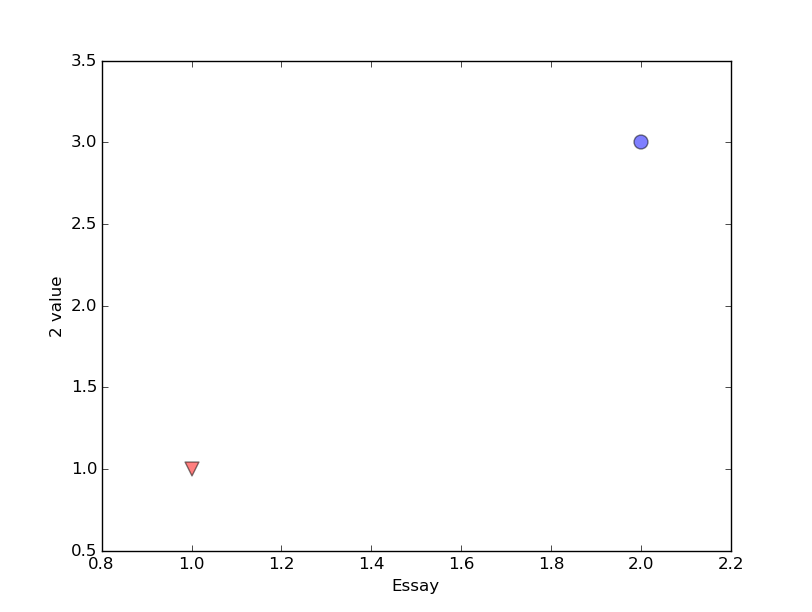
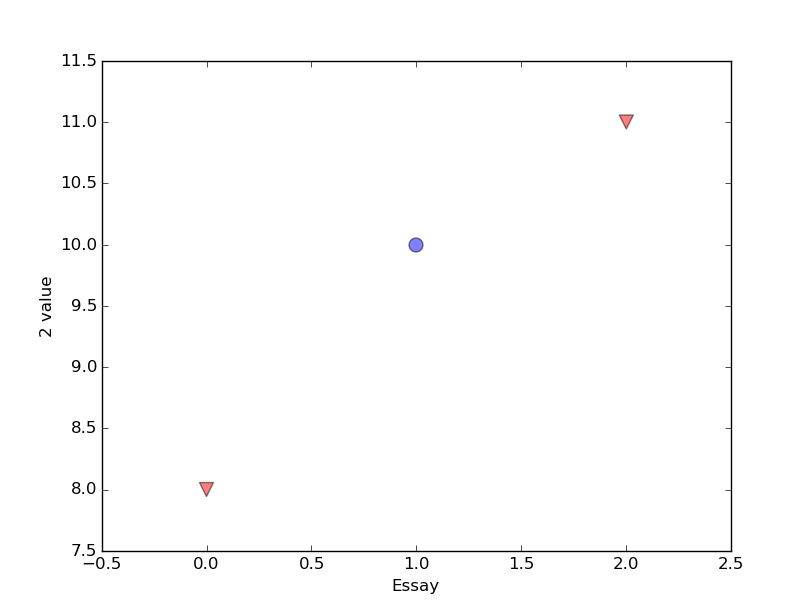
updated plots

diff --git a/PlottingCode/PlotFeatures.py b/PlottingCode/PlotFeatures.py
@@ -17,7 +17,7 @@ class Plotfeatures(object):
 		size is the size of each point you want in the plot
 	"""
 	def plot_data(self, size = 100):
-		self.data.sort()
+		self.data.sort(key=lambda tup: tup[1])  # sorts in place
 		data_list = map(list, zip(*self.data))
 		class1 = dict()
 		class2 = dict()
@@ -28,10 +28,10 @@ class Plotfeatures(object):
 		
 		for i in range(0, len(data_list[2])):
 			if data_list[2][i] == 1:
-				class1['x'].append(data_list[0][i])
+				class1['x'].append(i)
 				class1['y'].append(data_list[1][i])
 			else:
-				class2['x'].append(data_list[0][i])
+				class2['x'].append(i)
 				class2['y'].append(data_list[1][i])
 
 		self.figure.canvas.set_window_title(self.label)
@@ -58,7 +58,7 @@ p1.plot_data(10)
 p1.show_fig()
 p1.save_fig()
 
-b = [(2,3,0), (1,1,1)]
+b = [(7, 8, 1), (4, 10, 0), (6, 11, 1)]
 p2 = Plotfeatures(b, "2")
 p2.plot_data()
 p2.show_fig()
